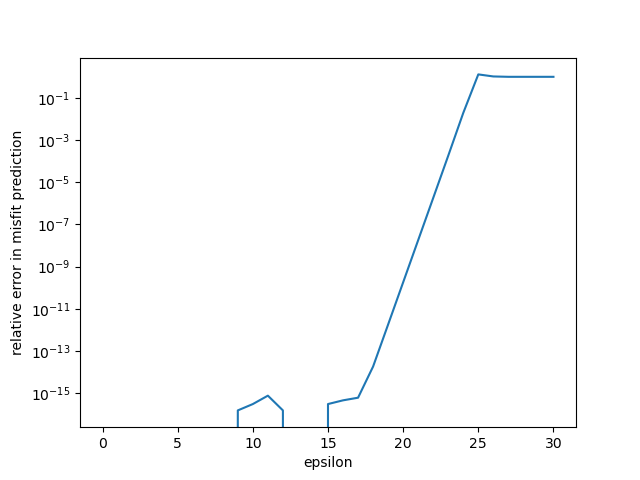
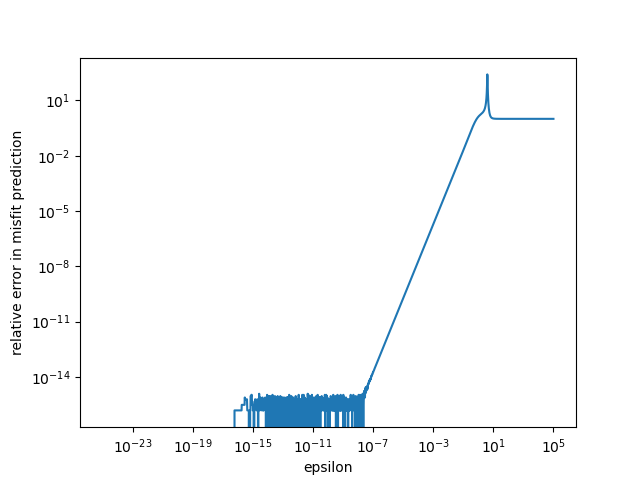
Updated plots

diff --git a/hockey_plot.py b/hockey_plot.py
@@ -64,7 +64,7 @@ x0, x1, y0, y1 = -5, 5, -5, 5
 misfit_initial = function_to_hockey(m_initial)
 gradient_initial = gradient_to_hockey(m_initial)
 
-epsilons = np.logspace(-25, 5, 31)
+epsilons = np.logspace(-25, 5, 3001)
 actual_misfits = np.empty_like(epsilons)
 predicted_misfits = np.empty_like(epsilons)
 relative_errors = np.empty_like(epsilons)
@@ -88,7 +88,7 @@ relative_misfit_errors = (
 )
 
 
-plt.semilogy(relative_misfit_errors)
+plt.loglog(epsilons, relative_misfit_errors)
 plt.ylabel("relative error in misfit prediction")
 plt.xlabel("epsilon")
 plt.show()
